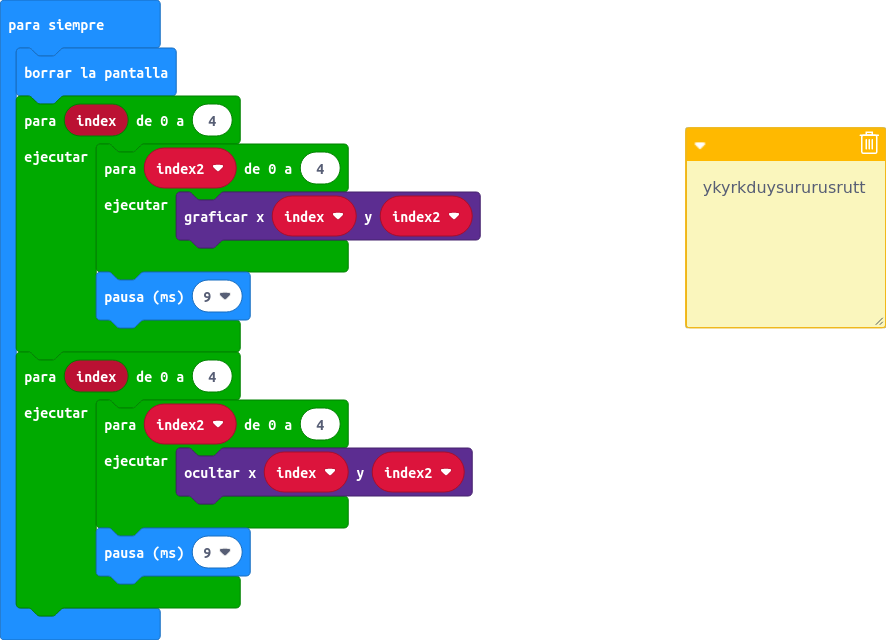
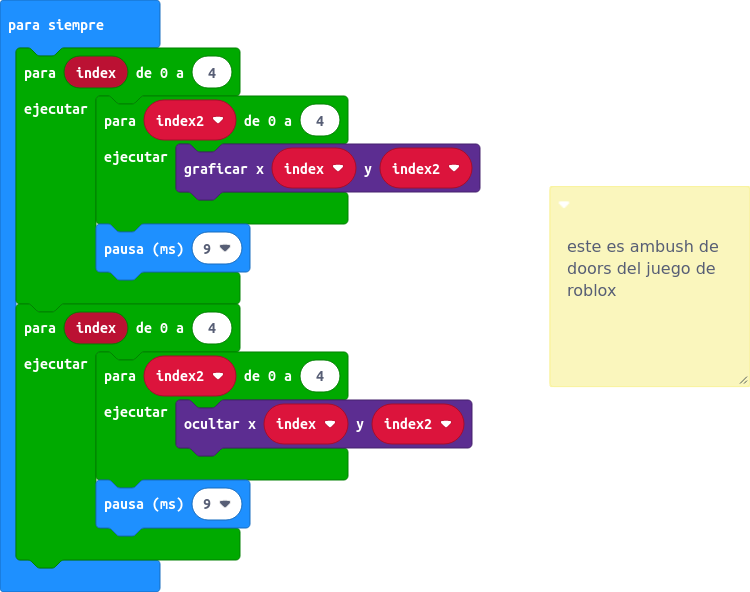
Actualizar main.blocks, main.ts

diff --git a/main.ts b/main.ts
@@ -1,8 +1,7 @@
 /**
- * ykyrkduysururusrutt
+ * este es ambush de doors del juego de roblox
  */
 basic.forever(function () {
-    basic.clearScreen()
     for (let index = 0; index <= 4; index++) {
         for (let index2 = 0; index2 <= 4; index2++) {
             led.plot(index, index2)
